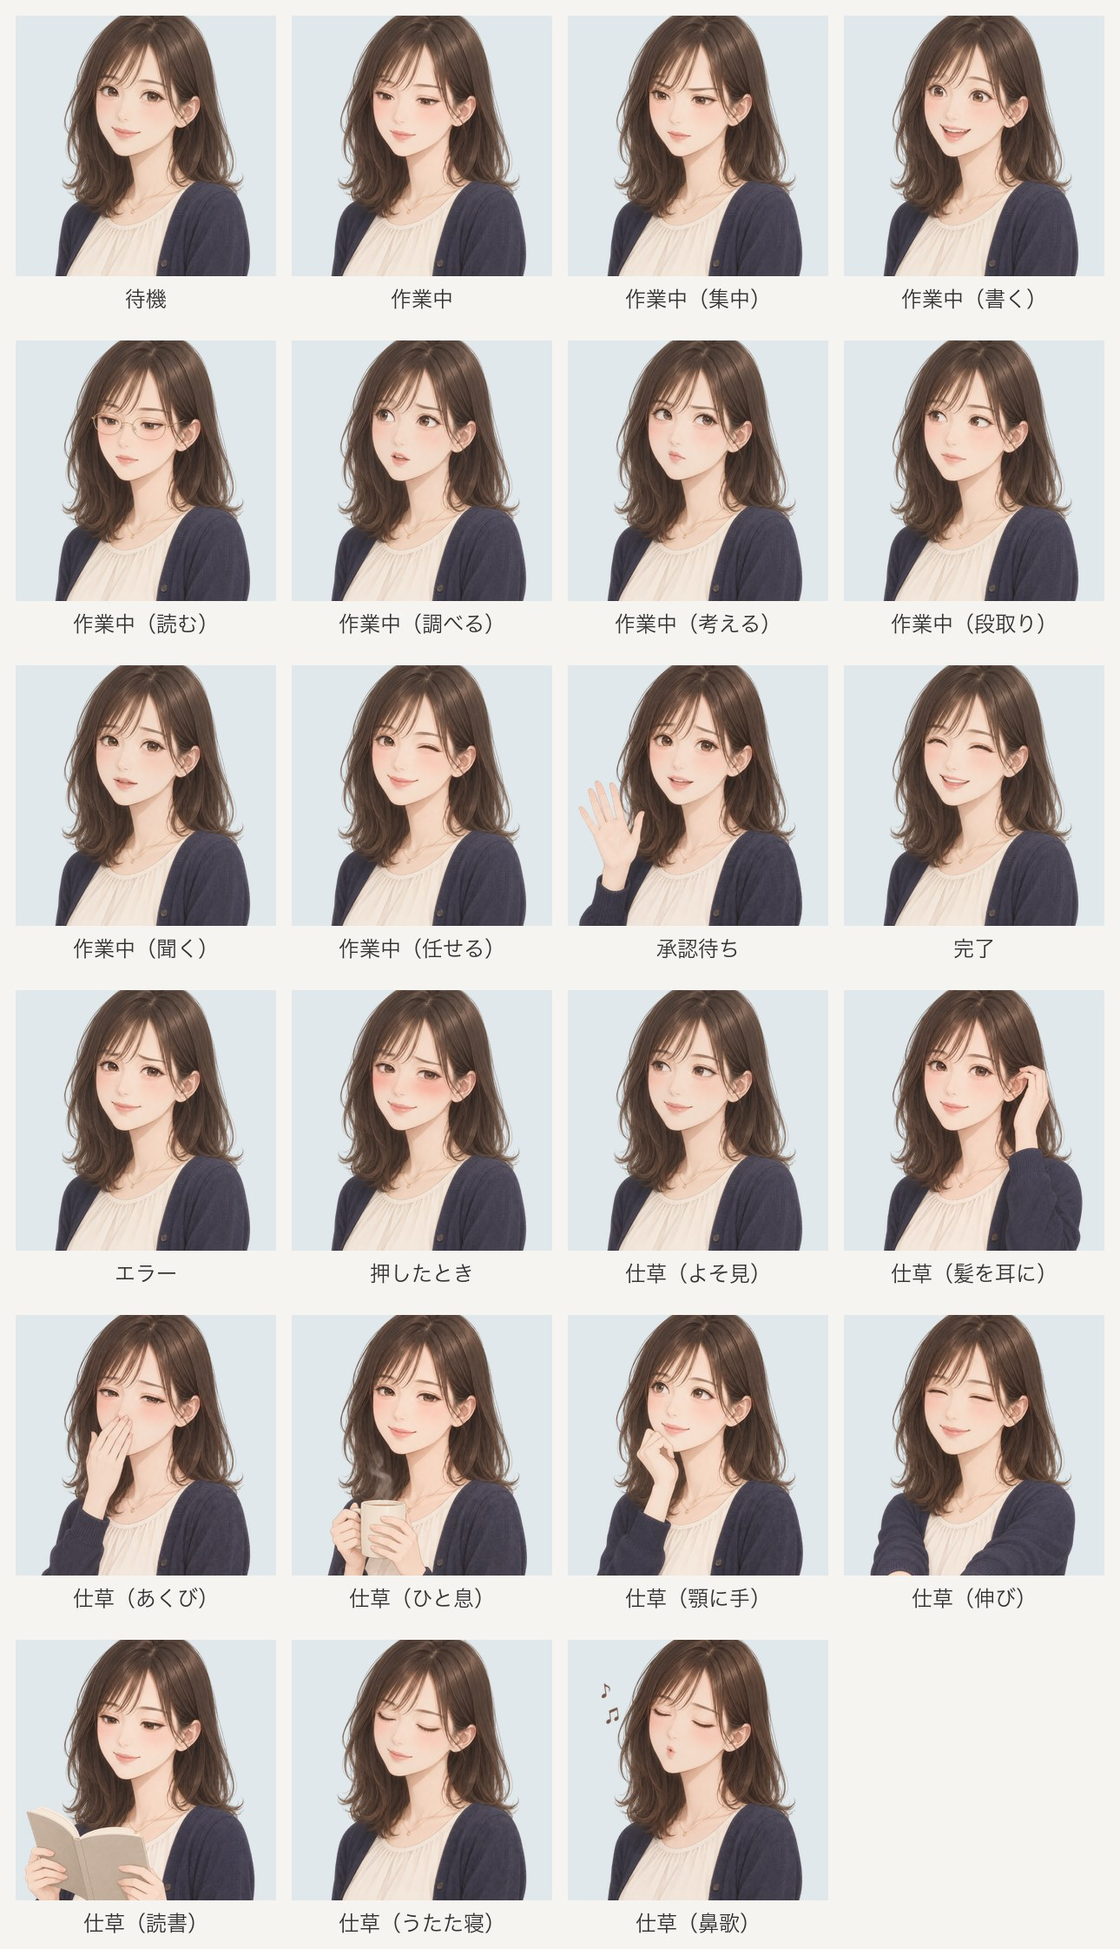
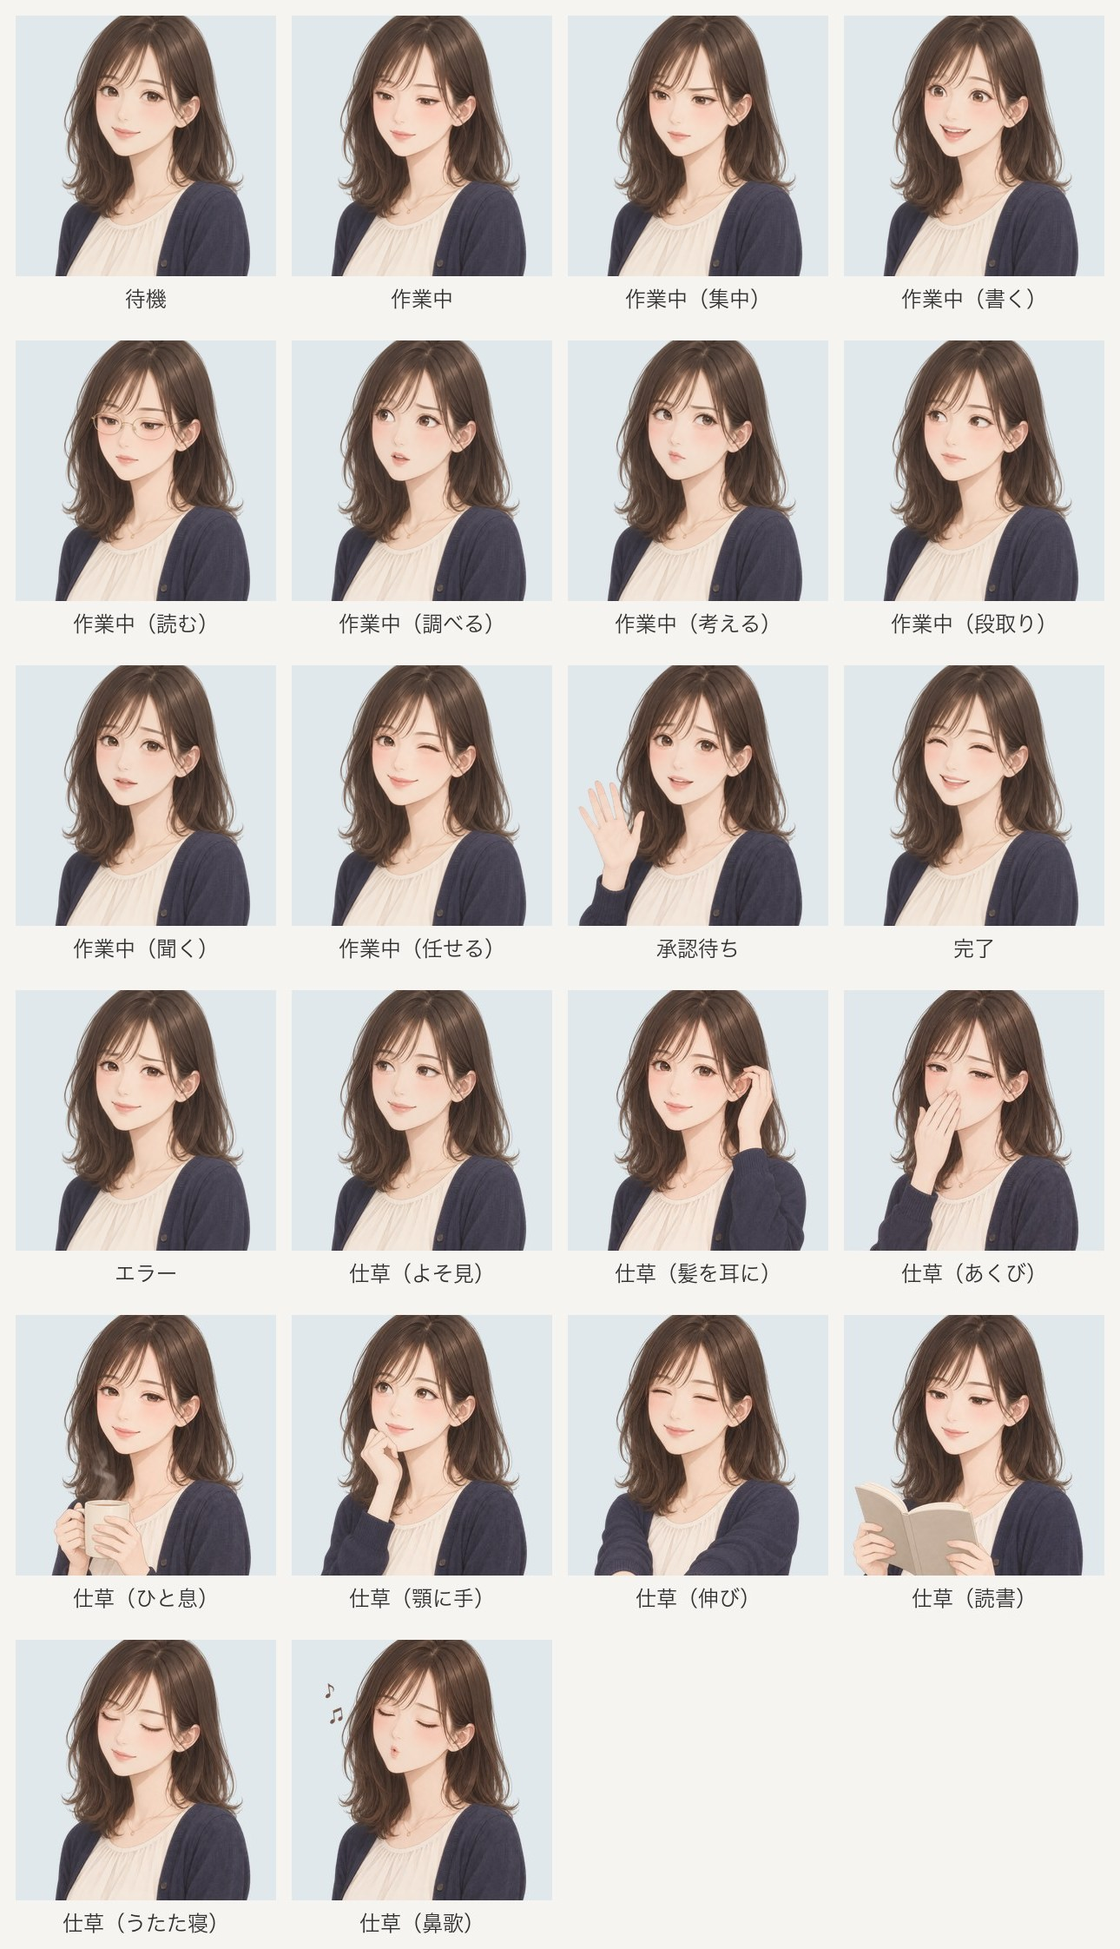
Toggle the panel between detail and counts when the character is pressed, and drop the touch reaction
Pressing the character now switches the panel style like the Detail and Counts buttons do. The shy face, its reaction lines, the Speech class and the manifest reaction rule go away, and the expression sheet loses its tile.

diff --git a/app/src/main.ts b/app/src/main.ts
@@ -16,7 +16,7 @@ import {
 } from "./acknowledged";
 import { BubbleModel, type BubbleView } from "./bubbleModel";
 import { bubbleEnabled, DEFAULT_BUBBLE_SETTINGS, type BubbleSettings } from "./bubbleSettings";
-import { categoryFor, fillTemplate, linesFor, mergeDialogue, reactionCategory } from "./dialogue";
+import { categoryFor, mergeDialogue } from "./dialogue";
 import { HitReporter, hitRegions, rectOf, type HitRegions, type Rect } from "./hitArea";
 import type { Point } from "./expander";
 import { characterCandidates, characterInfo, DEFAULT_CHARACTER, type CharacterInfo } from "./manifest";
@@ -42,7 +42,6 @@ import {
   type SettingsRequest,
   type SettingsState,
 } from "./settingsProtocol";
-import { Speech } from "./speech";
 import type { AppIcons, Dialogue, SessionState, Snapshot } from "./types";
 
 const CHARACTER_ROOT = new URL("/character/", window.location.href).href;
@@ -51,10 +50,9 @@ const CHARACTER_ROOT = new URL("/character/", window.location.href).href;
 const LEGACY_SHOW_ROWS_KEY = "marimo.showRows";
 // 利用制限の「古い」「リセット済み」と、今日の既読に数える日は時間だけで変わるので、変更通知とは別に描き直す。
 const PANEL_REFRESH_MS = 30_000;
-const REACTION_SPEECH_MS = 2500;
 // style.css の #bubble の bottom に足している、立ち絵と吹き出しの間の隙間と揃える必要がある。
 const BUBBLE_GAP_PX = 2;
-// 押してからこれ以上動いたらドラッグとみなし、立ち絵の反応は出さない。
+// 押してからこれ以上動いたらドラッグとみなし、立ち絵を押したことにはしない。
 const DRAG_THRESHOLD_PX = 4;
 
 const $ = (id: string) => document.getElementById(id) as HTMLElement;
@@ -74,18 +72,14 @@ const acknowledged = new Acknowledged((keys) =>
 let bubbleSettings: BubbleSettings = DEFAULT_BUBBLE_SETTINGS;
 const bubbleModel = new BubbleModel(acknowledged, undefined, (status) => bubbleEnabled(bubbleSettings, status));
 // 知らせの吹き出しは、押すとその行を押したのと同じ操作になる。移動せずに閉じたいときは行と同じ修飾キーを使う。
-// 立ち絵を押したときのひとことにはセッションが無いので、押しても閉じるだけである。
-const speech = new Speech();
 const bubble = new Bubble(bubbleNode, (e) => {
   const view = bubbleModel.view;
   const session = view ? shown?.sessions.find((s) => triggerKey(s) === view.key) : undefined;
   if (session && !e.altKey) {
     selectSession(session);
-    speech.clearReaction();
     return;
   }
   if (view) bubbleModel.dismiss();
-  speech.clearReaction();
   refreshAcknowledged();
 });
 const hits = new HitReporter(collectHitRegions);
@@ -109,7 +103,6 @@ let shown: Snapshot | null = null;
 let dialogue: Dialogue = {};
 // 組み込みの既定のセリフ。利用者の dialogue.json は上書きしたい分類だけを持ち、分類ごとに重ねる。
 let defaultDialogue: Dialogue = {};
-let speechTimer: number | undefined;
 let panelDisplay: PanelDisplay = DEFAULT_PANEL_DISPLAY;
 let appIcons: AppIcons = { claude: null, codex: null, hermes: null, opencode: null };
 let scale: ScaleControl | undefined;
@@ -174,14 +167,9 @@ async function reloadDialogue(): Promise<void> {
 // 立ち絵を隠している間は吹き出しを出さない。知らせの吹き出しはきっかけが続く間 bubbleModel に残るので、
 // 立ち絵を戻したときにまだ続いていれば、そのとき出る。
 function showSpeech(): void {
-  const visible = panelDisplay.show_character;
-  const text = visible ? speech.current(bubbleModel.view, performance.now()) : null;
-  scheduleExpiry(visible ? bubbleModel.view : null);
-  if (text)
-    bubble.show(
-      text,
-      bubbleModel.view ? `押すとセッションへ移動します（${READ_KEY} を押しながら押すと閉じます）` : "押すと閉じます",
-    );
+  const view = panelDisplay.show_character ? bubbleModel.view : null;
+  scheduleExpiry(view);
+  if (view) bubble.show(view.text, `押すとセッションへ移動します（${READ_KEY} を押しながら押すと閉じます）`);
   else bubble.hide();
   placeBubble();
   hits.schedule();
@@ -218,21 +206,6 @@ function placeBubble(): void {
     .map((r) => r.y - BUBBLE_GAP_PX);
   const lift = Math.max(0, Math.min(bottom - Math.min(bottom, ...tops), bottom - bubbleNode.offsetHeight));
   bubbleNode.style.setProperty("--bubble-lift", `${lift}px`);
-}
-
-async function reactToTouch(): Promise<void> {
-  renderer?.react();
-  if (bubbleModel.view) return;
-  await reloadDialogue();
-  const aggregate = shown?.aggregate ?? "idle";
-  const focus = shown?.sessions.find((s) => s.status === aggregate) ?? null;
-  const lines = linesFor(dialogue, reactionCategory(aggregate));
-  const template = lines[Math.floor(Math.random() * lines.length)];
-  const text = template === undefined ? undefined : fillTemplate(template, focus);
-  if (!speech.react(text, performance.now(), REACTION_SPEECH_MS, bubbleModel.view)) return;
-  showSpeech();
-  window.clearTimeout(speechTimer);
-  speechTimer = window.setTimeout(showSpeech, REACTION_SPEECH_MS);
 }
 
 function collectHitRegions(): HitRegions {
@@ -584,7 +557,7 @@ function bindPanelTabs(): void {
 function bindWindowControls(): void {
   // data-tauri-drag-region はダブルクリックで最大化を切り替えるので使わず、自前で始める。
   // ドラッグはすぐには始めず、押したまま少し動いてから始める。動かずに離したら、立ち絵を押した
-  // ことになる。行と吹き出しとボタンとスクロールバーは押して操作するので、そこからはドラッグを始めない。
+  // ことになり、パネルの詳細と件数を切り替える。行と吹き出しとボタンとスクロールバーは押して操作するので、そこからはドラッグを始めない。
   let press: { x: number; y: number; onStage: boolean; dragging: boolean } | null = null;
   document.addEventListener("mousedown", (e) => {
     const target = e.target as HTMLElement | null;
@@ -602,7 +575,8 @@ function bindWindowControls(): void {
     void getCurrentWindow().startDragging();
   });
   document.addEventListener("mouseup", () => {
-    if (press && !press.dragging && press.onStage) void reactToTouch();
+    if (press && !press.dragging && press.onStage)
+      setPanelStyle(panelDisplay.panel_style === "detail" ? "counts" : "detail");
     press = null;
   });
   document.addEventListener("contextmenu", (e) => {

diff --git a/app/src/expression.test.ts b/app/src/expression.test.ts
@@ -19,7 +19,6 @@ const FULL: StandingManifest = {
       "error",
       "idle_look_away",
       "idle_hair",
-      "react_shy",
     ].map((n) => [n, { image: `${n}.png` }]),
   ),
   rules: {
@@ -38,7 +37,6 @@ const FULL: StandingManifest = {
         { expression: "idle_hair", duration_ms: [3000, 5000] },
       ],
     },
-    reaction: { expression: "react_shy", duration_ms: 2500 },
     variants: { "done.long": "idle_hair", "error.rate_limit": "idle_yawn" },
     hover: { working: "idle" },
     hover_release_ms: 600,
@@ -146,17 +144,7 @@ describe("ExpressionDirector", () => {
     expect(d.current(66_000)).toBe("idle_look_away");
   });
 
-  it("reaction and hover override the base expression for their durations", () => {
-    const d = director();
-    d.setInput({ status: "working", tool: "Bash" });
-    d.setHover(true, 0);
-    expect(d.current(0)).toBe("idle");
-    expect(d.react(100)).toBe(true);
-    expect(d.current(200)).toBe("react_shy");
-    expect(d.current(2599)).toBe("react_shy");
-    expect(d.current(2600)).toBe("idle");
-
-    // カーソルが離れても、hover_release_ms の間はマウスを載せたときの表情を保つ。
+  it("hover overrides the base expression until hover_release_ms after the cursor leaves", () => {
     const e = director();
     e.setInput({ status: "working", tool: "Bash" });
     e.setHover(true, 0);
@@ -167,10 +155,9 @@ describe("ExpressionDirector", () => {
   });
 
   it("falls back to the status expression when assets are missing", () => {
-    const d = director(["working_focus", "react_shy", "idle_look_away", "idle_hair"]);
+    const d = director(["working_focus", "idle_look_away", "idle_hair"]);
     d.setInput({ status: "working", tool: "Bash" });
     expect(d.current(0)).toBe("working");
-    expect(d.react(0)).toBe(false);
     const idle = director(["idle_look_away", "idle_hair"]);
     idle.setInput({ status: "idle", tool: null });
     idle.current(0);
@@ -191,7 +178,6 @@ describe("normalize", () => {
     expect(Object.keys(c.expressions)).toEqual(["idle", "done"]);
     expect(c.rules.status).toEqual({ idle: "idle", done: "done" });
     expect(c.rules.idleGestures).toBeNull();
-    expect(c.rules.reaction).toBeNull();
     expect(c.rules.minSwitchMs).toBe(4000);
     const d = new ExpressionDirector(c.rules, (n) => n in c.expressions);
     d.setInput({ status: "working", tool: "Bash" });

diff --git a/app/src/expression.ts b/app/src/expression.ts
@@ -10,7 +10,7 @@ export interface DirectorInput {
 
 /**
  * 今どの表情を出すかを決める。DOM と時計に触れず、時刻は呼び出し側が渡すので単体で試せる。
- * 優先度は、押したときの反応、マウスを載せたときの表情、待機中の仕草、状態の基本の表情の順。
+ * 優先度は、マウスを載せたときの表情、待機中の仕草、状態の基本の表情の順。
  * 素材の無い表情は選ばず、状態の基本の表情で代用する。
  */
 export class ExpressionDirector {
@@ -24,7 +24,6 @@ export class ExpressionDirector {
   private nextGestureAt: number | null = null;
   private hovered = false;
   private hoverUntil = 0;
-  private reactUntil = 0;
 
   constructor(
     private readonly rules: ExpressionRules,
@@ -47,20 +46,9 @@ export class ExpressionDirector {
     this.hovered = on;
   }
 
-  /** 反応の表情を出せたら true を返す。吹き出しを出すかどうかは呼び出し側が決める。 */
-  react(now: number): boolean {
-    const r = this.rules.reaction;
-    if (!r || !this.available(r.expression)) return false;
-    this.reactUntil = now + r.durationMs;
-    this.gesture = null;
-    return true;
-  }
-
   current(now: number): string | null {
     const base = this.baseExpression(now);
     this.advanceGesture(now);
-    const r = this.rules.reaction;
-    if (r && now < this.reactUntil) return r.expression;
     const hover = this.rules.hover[this.input.status];
     if (hover && this.hoverActive(now) && this.available(hover)) return hover;
     if (this.gesture) return this.gesture.expression;
@@ -130,7 +118,7 @@ export class ExpressionDirector {
       this.nextGestureAt = now + this.between(g.intervalMs);
       return;
     }
-    if (now < this.nextGestureAt || this.hoverActive(now) || now < this.reactUntil) return;
+    if (now < this.nextGestureAt || this.hoverActive(now)) return;
     // 候補が複数あるときは、直前と同じ仕草が続かないようにする。
     const pool =
       candidates.length > 1 ? candidates.filter((x) => x.expression !== this.lastGesture) : candidates;

diff --git a/app/src/bubbleModel.test.ts b/app/src/bubbleModel.test.ts
@@ -103,20 +103,3 @@ describe("BubbleModel settings", () => {
     expect(m.update(snap(session("a", "waiting", 2), session("b", "waiting", 3)), DIALOGUE)?.sessionKey).toBe("b");
   });
 });
-
-describe("Speech", () => {
-  it("lets notification bubbles win over the touch reaction", async () => {
-    const { Speech } = await import("./speech");
-    const s = new Speech();
-    const status = { key: "k", sessionKey: "a", status: "waiting" as const, text: "確認してね" };
-    expect(s.react("ふふ", 0, 2500, status)).toBe(false);
-    expect(s.current(status, 100)).toBe("確認してね");
-    expect(s.react("ふふ", 0, 2500, null)).toBe(true);
-    expect(s.current(null, 2499)).toBe("ふふ");
-    expect(s.current(null, 2500)).toBeNull();
-    // ひとことの途中で知らせが来たら、知らせに切り替えて、ひとことは戻さない。
-    s.react("ふふ", 3000, 2500, null);
-    expect(s.current(status, 3100)).toBe("確認してね");
-    expect(s.current(null, 3200)).toBeNull();
-  });
-});

diff --git a/app/src/manifest.ts b/app/src/manifest.ts
@@ -33,7 +33,6 @@ export interface ManifestRules {
     interval_ms: [number, number];
     gestures: { expression: string; duration_ms: [number, number] }[];
   };
-  reaction?: { expression: string; duration_ms: number };
   hover?: Partial<Record<Status, string>>;
   hover_release_ms?: number;
 }
@@ -52,7 +51,6 @@ export interface ExpressionRules {
     intervalMs: [number, number];
     gestures: { expression: string; durationMs: [number, number] }[];
   } | null;
-  reaction: { expression: string; durationMs: number } | null;
   hover: Partial<Record<Status, string>>;
   hoverReleaseMs: number;
 }
@@ -140,9 +138,6 @@ export function normalize(manifest: StandingManifest): Character {
               durationMs: g.duration_ms,
             })),
           }
-        : null,
-      reaction: r.reaction
-        ? { expression: r.reaction.expression, durationMs: r.reaction.duration_ms }
         : null,
       hover: r.hover ?? {},
       hoverReleaseMs: r.hover_release_ms ?? DEFAULT_HOVER_RELEASE_MS,

diff --git a/app/src/dialogue.ts b/app/src/dialogue.ts
@@ -32,10 +32,6 @@ export function categoryFor(s: SessionState): string {
   return status;
 }
 
-export function reactionCategory(aggregate: Status): string {
-  return aggregate === "working" ? "reaction.working" : "reaction";
-}
-
 /** 細かい分類にセリフがなければ、ドットで区切られた親の分類へ順に戻る。 */
 export function linesFor(dialogue: Dialogue, category: string): string[] {
   for (let c: string | null = category; c; c = parent(c)) {

diff --git a/app/src/standing.ts b/app/src/standing.ts
@@ -76,12 +76,6 @@ export class StandingRenderer implements CharacterRenderer {
     this.refresh(false);
   }
 
-  react(): boolean {
-    const ok = this.director.react(performance.now());
-    this.refresh(false);
-    return ok;
-  }
-
   // 瞬きの差分は顔だけが違い、輪郭は基本の画像と同じなので、基本の画像の形で判定する。
   hitArea(): { element: HTMLElement; mask: HitMask | null } {
     const assets = this.assets();

diff --git a/app/src/renderer.ts b/app/src/renderer.ts
@@ -18,8 +18,6 @@ export interface CharacterRenderer {
   mount(container: HTMLElement): Promise<void>;
   update(input: RendererInput): void;
   setHover(on: boolean): void;
-  /** 押されたときの反応。反応の表情を出せたら true を返す。 */
-  react(): boolean;
   /** 絵の輪郭が変わったとき（表情の切り替えなど）に呼ばれる。 */
   onShapeChange: (() => void) | null;
   destroy(): void;

diff --git a/tools/character/clawd.py b/tools/character/clawd.py
@@ -28,7 +28,6 @@ PALETTE = {
     "#": (215, 119, 87),
     "E": (30, 30, 30),
     "k": (30, 30, 30),
-    "p": (244, 160, 170),
     "y": (250, 204, 72),
     "a": (245, 166, 35),
     "b": (110, 182, 236),
@@ -75,7 +74,6 @@ RIGHT = face("", "", "....EE............EE", "....EE............EE", "....EE....
 FOCUS = face("", ".kk..............kk", "...k............k", "", "..EE............EE", "..EE............EE")
 WINK = face("", "", "..EE", "..EE.............kk", "..EE............k..k", "..EE")
 HAPPY = face("", "", "..kk............kk", ".k..k..........k..k")
-SHY = face("", "", "..kk............kk", ".k..k..........k..k", "", "ppp..............ppp", "ppp..............ppp")
 CROSS = face("", ".k..k..........k..k", "..kk............kk", "..kk............kk", ".k..k..........k..k")
 SLEEP = face("", "", "", "", ".k..k..........k..k", "..kk............kk")
 CLOSED = face("", "", "", "", ".kkkk..........kkkk")
@@ -113,7 +111,6 @@ STATES = {
     "idle_hop": state(OPEN, arms="lift", hop=4),
     "idle_sleep": state(SLEEP, extras=[(SMALL_Z, 46, 5), (BIG_Z, 51, 0)]),
     "idle_stretch": state(CLOSED, arms="high"),
-    "react_shy": state(SHY),
 }
 BLINKS = ["idle", "working", "working_focus", "working_read", "working_curious", "working_think", "working_delegate"]
 

diff --git a/docs/customize.md b/docs/customize.md
@@ -10,21 +10,21 @@
 
 吹き出しのセリフは、選んでいるキャラクターの既定のものを使います。自分のセリフを使いたいときは、`~/.marimo/dialogue.json` に**変えたい分類だけ**を書きます。分類ごとに、このファイルにあればそれを、なければ既定のセリフを使います。
 
-たとえば、長い作業が終わったときと、立ち絵を押したときのセリフだけを変えるには、次のように書きます。
+たとえば、長い作業が終わったときと、承認を待っているときのセリフだけを変えるには、次のように書きます。
 
 ```json
 {
   "done.long": [
     "{folder} の作業、{duration}かかって終わったよ。お茶でもどう？"
   ],
-  "reaction": [
-    "ここにいるよ。",
-    "今日もおつかれさま。"
+  "waiting": [
+    "{folder} で手を貸してほしいの。",
+    "{folder} があなたの返事を待っているよ。"
   ]
 }
 ```
 
-各分類の値は、1 行以上の文字列の配列にします。候補が複数あれば、その中から一つが選ばれます。ファイルは新しい吹き出しを出すときと立ち絵を押したときに読み直されるので、アプリを再起動しなくても反映されます。ファイルが読めないときや、形式の合わない分類は無視され、既定のセリフで動き続けます。
+各分類の値は、1 行以上の文字列の配列にします。候補が複数あれば、その中から一つが選ばれます。ファイルは新しい吹き出しを出すときに読み直されるので、アプリを再起動しなくても反映されます。ファイルが読めないときや、形式の合わない分類は無視され、既定のセリフで動き続けます。
 
 分類はドット区切りで、細かい分類にセリフが無ければ親の分類へ戻ります。たとえば `waiting.permission` が無ければ `waiting` を使います。
 
@@ -39,8 +39,6 @@
 | `done.long` | 15 分以上かかって完了したとき |
 | `error.rate_limit` | 利用制限に達して止まったとき |
 | `error` | その他のエラー |
-| `reaction` | 立ち絵を押したとき |
-| `reaction.working` | 作業中に立ち絵を押したとき |
 
 完了までの時間は、プロンプトを送ってから応答が終わるまでの時間です。セリフの中には、次の二つの差し込みを書けます。
 
@@ -78,7 +76,6 @@
 | `rules.working_no_tool` | 作業中に、ツールを使っていないとき（考えているときや応答を書いているとき）の表情です。既定では `working_think` を使います。書かなければ `rules.status` の作業中の表情のままです |
 | `rules.min_switch_ms` | 作業中の表情を切り替える最短の間隔（ミリ秒）です。ツールは数秒ごとに変わるので、ちらつかないように間を空けます。既定は 4000 です |
 | `rules.idle_gestures` | 待機中の仕草です。`interval_ms` は仕草の間隔の最小と最大、`gestures` は仕草の表情と、見せる時間 `duration_ms` の最小と最大です。直前と同じ仕草は続けて選ばれません |
-| `rules.reaction` | 立ち絵を押したときの表情 `expression` と、見せる時間 `duration_ms` です |
 | `rules.hover` | 状態ごとに、マウスを載せたときの表情を書きます。既定では作業中だけ `idle` を使います |
 | `rules.hover_release_ms` | マウスが離れてから元の表情へ戻すまでの時間です。既定は 600 です |
 
